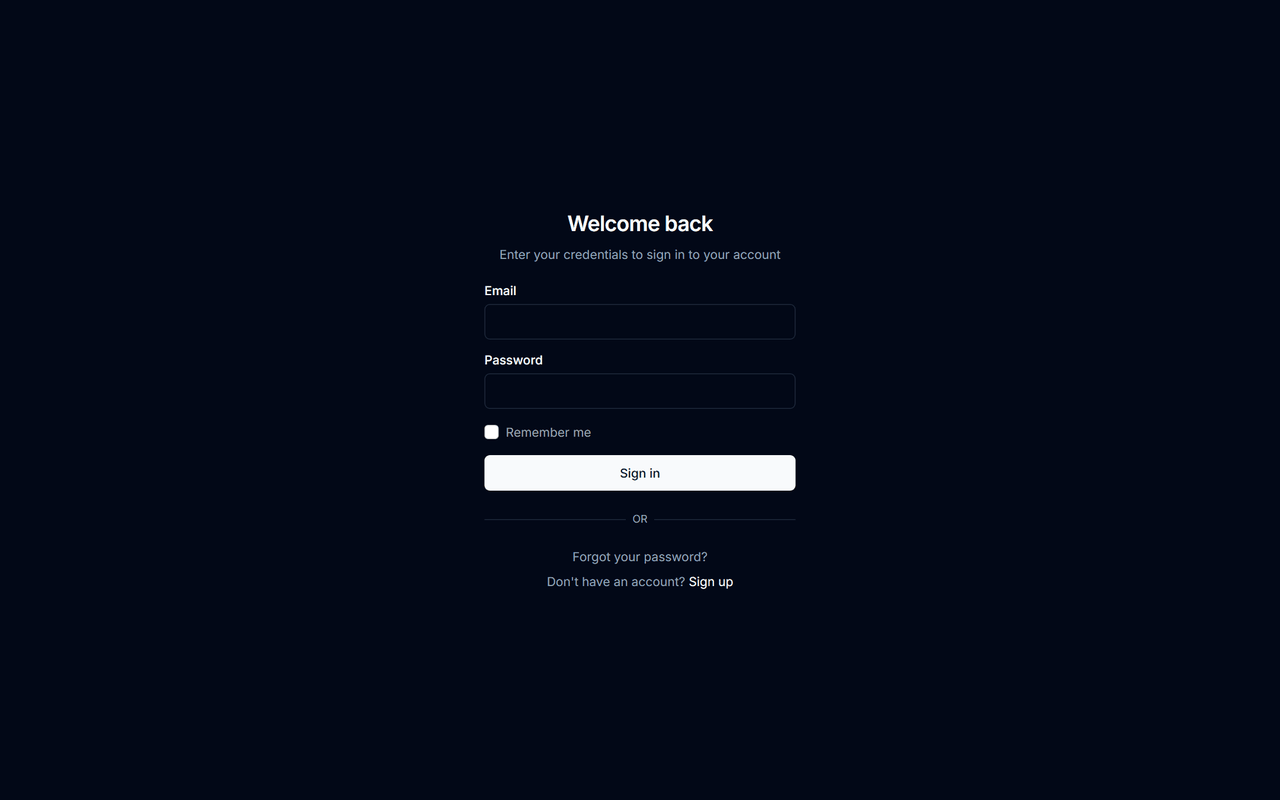
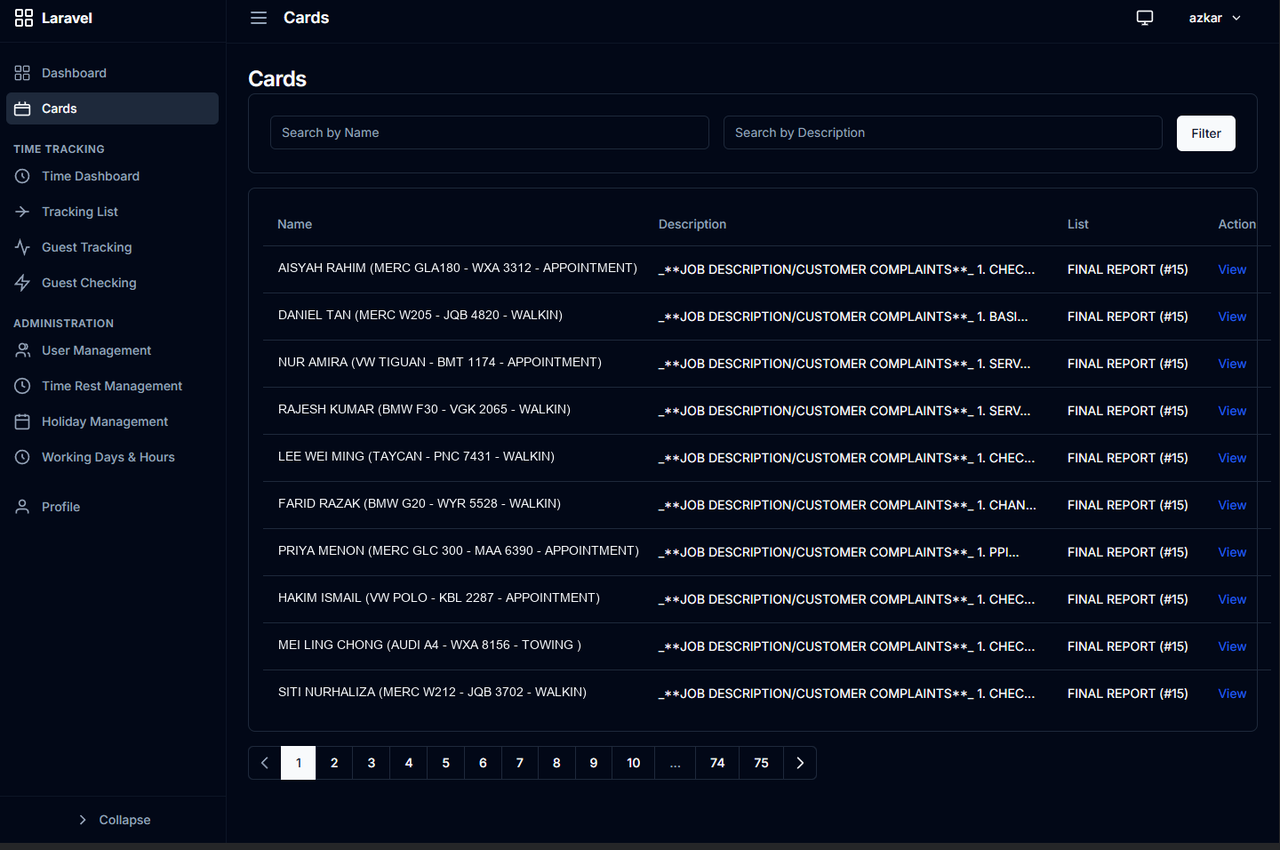
feat: add Trello-Strutt cards and dashboard screenshots
Use the two screens supplied for the project — the cards table and the
admin dashboard — replacing the login-page cover, which showed nothing of
the product.

Customer names and plate numbers are redrawn rather than blacked out: the
name column and the Recent Cards titles are repainted with stand-in names
in a matching face, so no real workshop data ships and the pages still
read as a working product. The dashboard titles keep their CSS truncation
by trimming each replacement to the width the original occupied.

diff --git a/index.html b/index.html
@@ -743,7 +743,7 @@ const CONFIG = {
       desc:"Trello integration that syncs boards via webhooks to track workshop efficiency — logs how long each card stays in progress and surfaces live timing and progress metrics on a dashboard.",
       long:"A companion tool that connects to an existing Trello workspace via webhooks. It captures card movement in real time, logs how long each card stays in progress, and surfaces workshop-efficiency and progress metrics on a live dashboard — turning Trello activity into throughput and timing analytics.",
       stack:["Laravel","MySQL","Vue 3","shadcn/ui","Tailwind","Alpine.js","Sanctum","Trello Webhooks","Vite"],
-      gallery:[] },
+      gallery:["trello-strutt","trello-strutt-dashboard"] },
   ],
 };
 /* ════════════════════════════════════════════════════════════════ */
